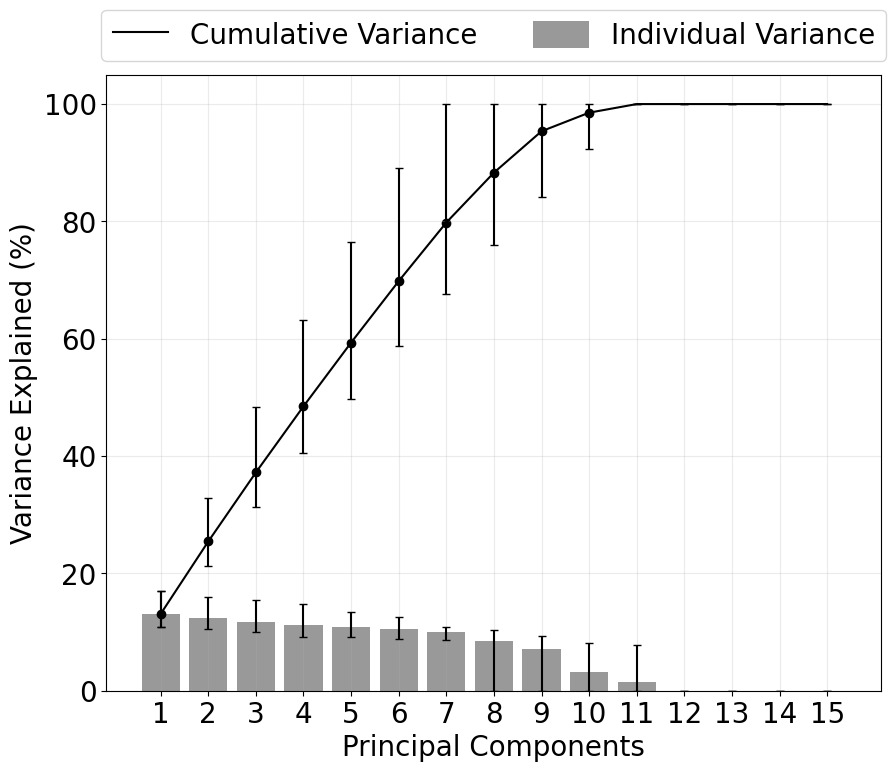
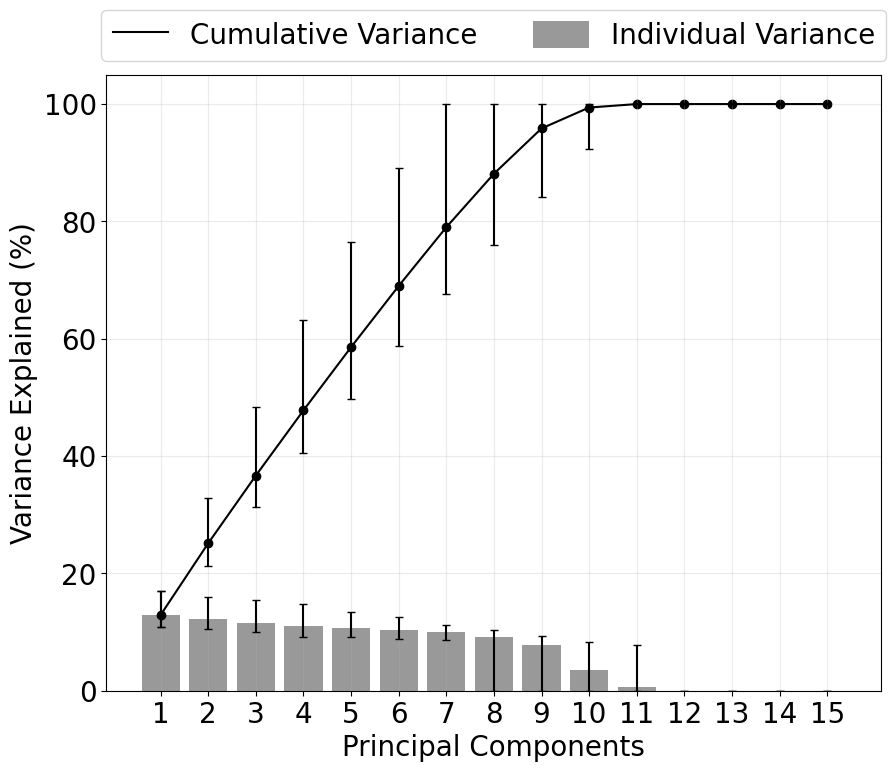
Code

diff --git a/correlation_flows.py b/correlation_flows.py
@@ -24,7 +24,7 @@ batch_size = 32
 
 
 
-all_properties = pd.read_csv("Galaxy Properties/Eagle Properties/all_properties_ellipticals.csv")
+all_properties = pd.read_csv("Galaxy Properties/Eagle Properties/all_properties_transitional.csv")
 print(all_properties)
 
 
@@ -173,11 +173,12 @@ fig, axs = plt.subplots(2, 1, figsize=(35, 15))
 # spirals (35)
 # run_order = [1, 2, 3, 4, 5, 6, 7, 8, 9, 10, 11, 12, 13, 14, 15, 16, 17, 18, 19, 21, 22, 23, 24, 25] + [20]
 
-# transitional (35)
+# transitional (30. 35)
+run_order = [8] + [10, 12] + [2, 4, 5, 6, 11, 13, 14, 18, 21, 22, 23] + [1, 7, 15, 16, 17, 19, 20, 24, 25] + [3, 9]
 # run_order = [3, 7, 14, 20, 22] + [2, 6, 8, 9, 11, 12, 13, 16, 17, 19, 23, 25] + [1, 4, 5, 10, 15, 18, 21, 24]
 
 # ellipticals (30, 35)
-run_order = [1, 2, 10, 13, 16, 18, 21, 24] + [3, 4, 5, 12, 14, 15, 17, 22, 23, 25] + [6, 7, 8, 19, 20] + [9, 11]
+# run_order = [1, 2, 10, 13, 16, 18, 21, 24] + [3, 4, 5, 12, 14, 15, 17, 22, 23, 25] + [6, 7, 8, 19, 20] + [9, 11]
 # run_order = [6] + [2, 3, 5, 8, 13, 16, 20, 24] + [4, 9, 11, 12, 14, 15, 18, 19, 23, 25] + [1, 7, 10, 17, 21, 22]
 
 run_names = [str(a) for a in run_order]
@@ -194,7 +195,7 @@ for feature in range(0, 13):
     for run in run_order:
 
         # extracted_features = np.load("Variational Eagle/Extracted Features/Normalising Flow/planar_new_latent_" + str(encoding_dim) + "_beta_" + beta_name + "_epoch_" + str(epochs) + "_flows_" + str(n_flows) + "_" + str(run) + "_default.npy")[0]
-        extracted_features = np.load("Variational Eagle/Extracted Features/Ellipticals/planar_new_latent_" + str(encoding_dim) + "_beta_" + beta_name + "_epoch_" + str(epochs) + "_flows_" + str(n_flows) + "_" + str(run) + "_default_transformed.npy")
+        extracted_features = np.load("Variational Eagle/Extracted Features/Transitional/planar_new_latent_" + str(encoding_dim) + "_beta_" + beta_name + "_epoch_" + str(epochs) + "_flows_" + str(n_flows) + "_" + str(run) + "_default_transformed.npy")
         encoding_dim = extracted_features.shape[1]
 
         # perform pca on the extracted features
@@ -301,7 +302,7 @@ for feature in range(0, 13):
     for run in run_order:
 
         # extracted_features = np.load("Variational Eagle/Extracted Features/Normalising Flow/planar_new_latent_" + str(encoding_dim) + "_beta_" + beta_name + "_epoch_" + str(epochs) + "_flows_" + str(n_flows) + "_" + str(run) + "_default.npy")[0]
-        extracted_features = np.load("Variational Eagle/Extracted Features/Ellipticals/planar_new_latent_" + str(encoding_dim) + "_beta_" + beta_name + "_epoch_" + str(epochs) + "_flows_" + str(n_flows) + "_" + str(run) + "_default_transformed.npy")
+        extracted_features = np.load("Variational Eagle/Extracted Features/Transitional/planar_new_latent_" + str(encoding_dim) + "_beta_" + beta_name + "_epoch_" + str(epochs) + "_flows_" + str(n_flows) + "_" + str(run) + "_default_transformed.npy")
         encoding_dim = extracted_features.shape[1]
 
         # perform pca on the extracted features
@@ -410,11 +411,12 @@ wrap_labels(axs[1], 10)
 # spirals (35)
 # cols = [24]
 
-# transitional (35)
+# transitional (30, 35)
+cols = [1, 3, 14, 23]
 # cols = [5, 17]
 
 # ellipticals (35)
-cols = 8, 18, 23
+# cols = 8, 18, 23
 # cols = [1, 9, 19]
 
 ymin, ymax = axs[0].get_ylim()
@@ -427,7 +429,7 @@ for col in cols:
 
 
 
-plt.savefig("Variational Eagle/Correlation Plots/Ellipticals/PCA/latent_" + str(encoding_dim) + "_correlation", bbox_inches='tight')
+plt.savefig("Variational Eagle/Correlation Plots/Transitional/PCA/latent_" + str(encoding_dim) + "_correlation", bbox_inches='tight')
 plt.show()
 
 

diff --git a/pca.py b/pca.py
@@ -130,7 +130,7 @@ for run in range(1, 26):
 # for run in range(1, 11):
 
     try:
-        extracted_features = np.load("Variational Eagle/Extracted Features/Ellipticals/planar_new_latent_" + str(encoding_dim) + "_beta_" + beta_name + "_epoch_750_flows_" + str(n_flows) + "_" + str(run) + "_default_transformed.npy")
+        extracted_features = np.load("Variational Eagle/Extracted Features/Transitional/planar_new_latent_" + str(encoding_dim) + "_beta_" + beta_name + "_epoch_750_flows_" + str(n_flows) + "_" + str(run) + "_default_transformed.npy")
 
         pca = PCA(n_components=0.999, svd_solver="full").fit(extracted_features)
 
@@ -168,7 +168,7 @@ for components in range(0, 15):
     for run in range(1, 26):
     # for run in range(1, 11):
 
-        extracted_features = np.load("Variational Eagle/Extracted Features/Ellipticals/planar_new_latent_" + str(encoding_dim) + "_beta_" + beta_name + "_epoch_750_flows_" + str(n_flows) + "_" + str(run) + "_default_transformed.npy")
+        extracted_features = np.load("Variational Eagle/Extracted Features/Transitional/planar_new_latent_" + str(encoding_dim) + "_beta_" + beta_name + "_epoch_750_flows_" + str(n_flows) + "_" + str(run) + "_default_transformed.npy")
 
         pca = PCA(n_components=encoding_dim, svd_solver="full").fit(extracted_features)
         variance_explained = pca.explained_variance_ratio_
@@ -271,7 +271,7 @@ plt.legend(handles=custom_legend, handleheight=1.1, loc='lower center', bbox_to_
 print(med_accumulation)
 print(med_specific)
 
-plt.savefig("Variational Eagle/Plots/variance_explained_mean_" + str(encoding_dim) + "_ellipticals", bbox_inches="tight")
+plt.savefig("Variational Eagle/Plots/variance_explained_mean_" + str(encoding_dim) + "_transitional", bbox_inches="tight")
 # plt.savefig("Variational Eagle/Plots/variance_explained_mean.pdf", bbox_inches="tight")
 plt.show()
 
